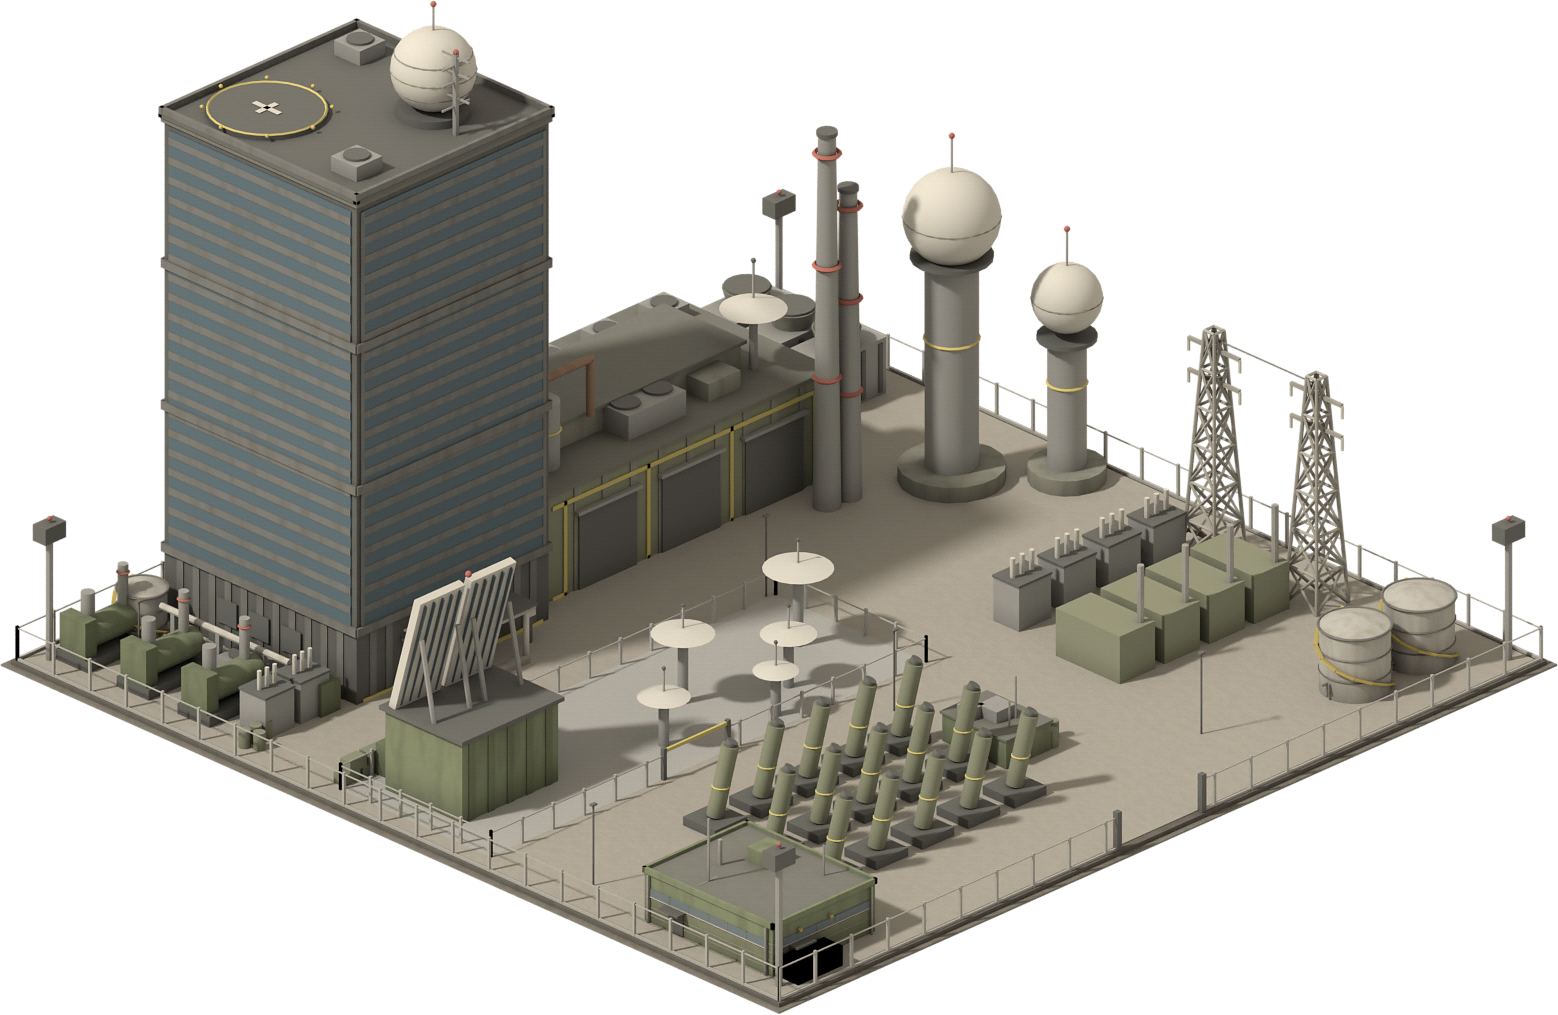
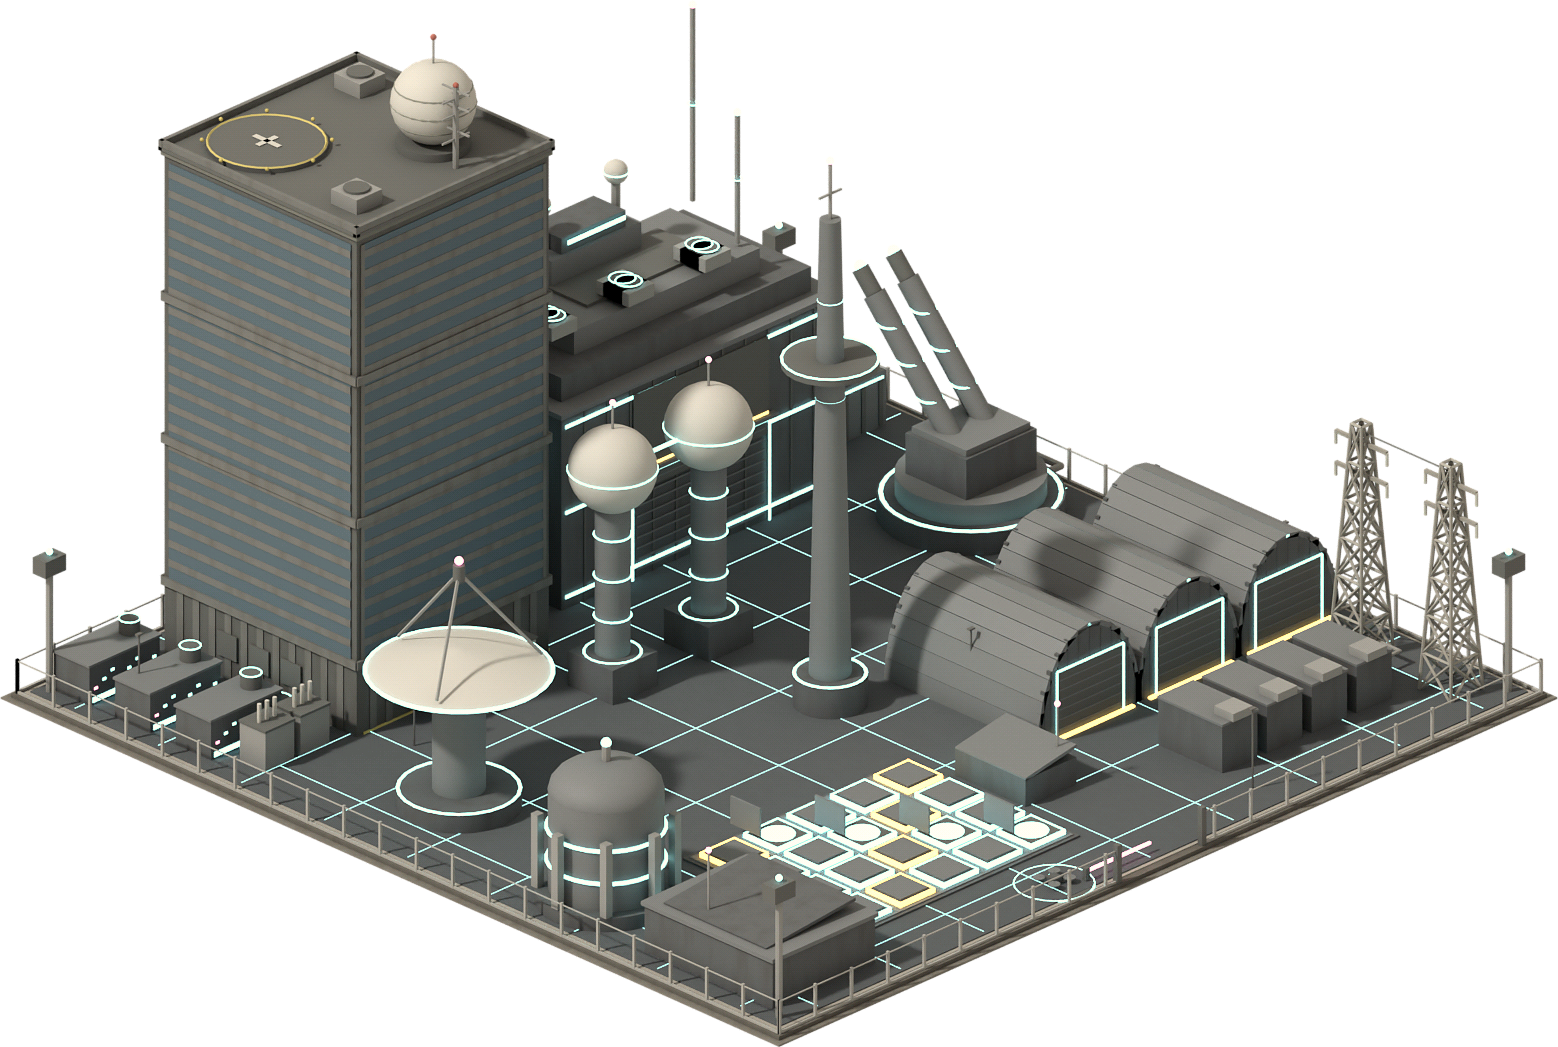
電線モジュールの浮いた線を撤去し、AI防衛工場の絵を更新（キャッシュ v7）
Claude-Session: https://claude.ai/code/session_018rzwRr8JkDqqPcQLfX2TTK

diff --git a/data/sprites_bl.js b/data/sprites_bl.js
@@ -3122,7 +3122,7 @@ window.GAME_DATA.spritesBL = {
    {
     "file": "../assets/bl/aiDefenseFactory_r0.png",
     "w": 779.0,
-    "h": 573.0,
+    "h": 572.5,
     "ax": 389.5,
     "ay": 395.6,
     "fw": 12,
@@ -3140,18 +3140,18 @@ window.GAME_DATA.spritesBL = {
    {
     "file": "../assets/bl/aiDefenseFactory_r2.png",
     "w": 779.0,
-    "h": 414.0,
+    "h": 463.0,
     "ax": 389.5,
-    "ay": 236.6,
+    "ay": 286.1,
     "fw": 12,
     "fd": 12
    },
    {
     "file": "../assets/bl/aiDefenseFactory_r3.png",
     "w": 779.0,
-    "h": 507.5,
+    "h": 523.5,
     "ax": 389.5,
-    "ay": 330.1,
+    "ay": 346.6,
     "fw": 12,
     "fd": 12
    }

diff --git a/sw.js b/sw.js
@@ -1,5 +1,5 @@
 // 工場地帯シミュ：オフライン用のキャッシュ。http(s) で配信したときだけ使われる（file:// では登録されない）。内容を変えたら CACHE を上げる
-const CACHE = 'factorysim-v5';
+const CACHE = 'factorysim-v7';
 self.addEventListener('install', e => { self.skipWaiting(); });
 self.addEventListener('activate', e => { e.waitUntil(caches.keys().then(ks => Promise.all(ks.filter(k => k !== CACHE).map(k => caches.delete(k)))).then(() => self.clients.claim())); });
 self.addEventListener('fetch', e => {
